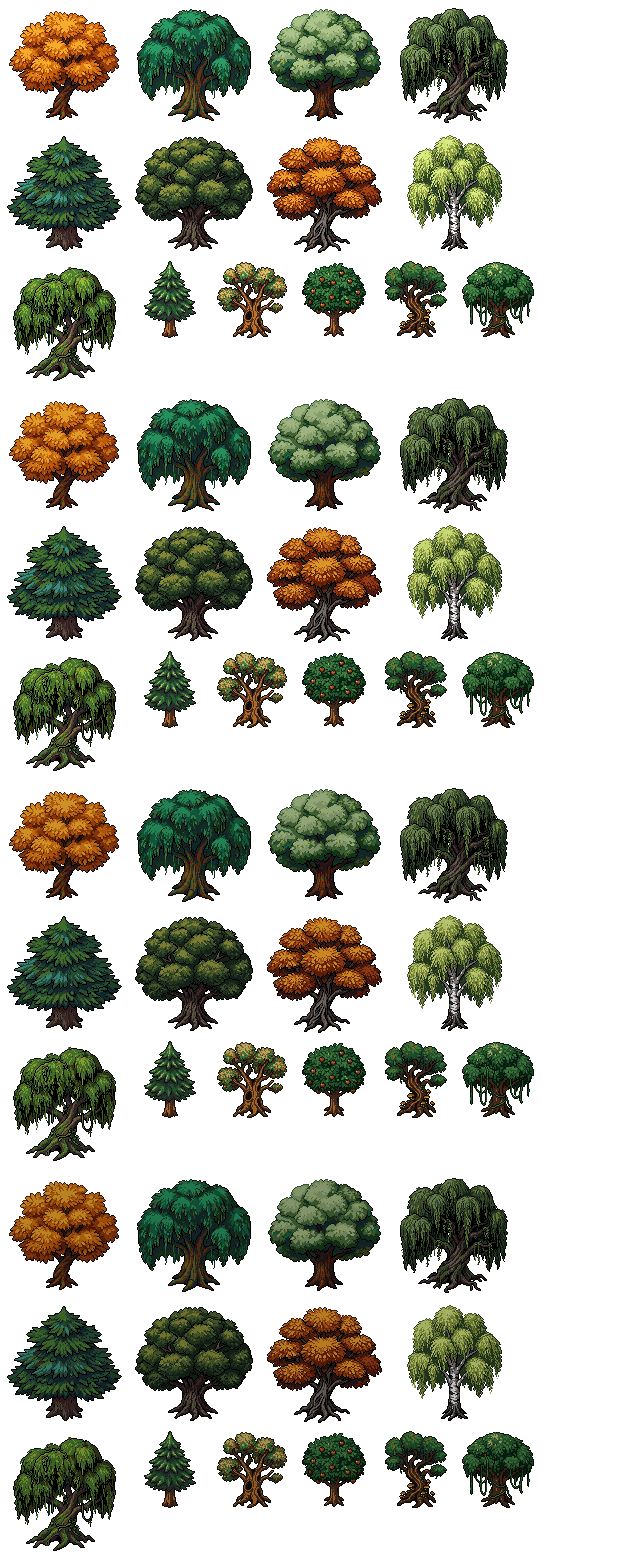
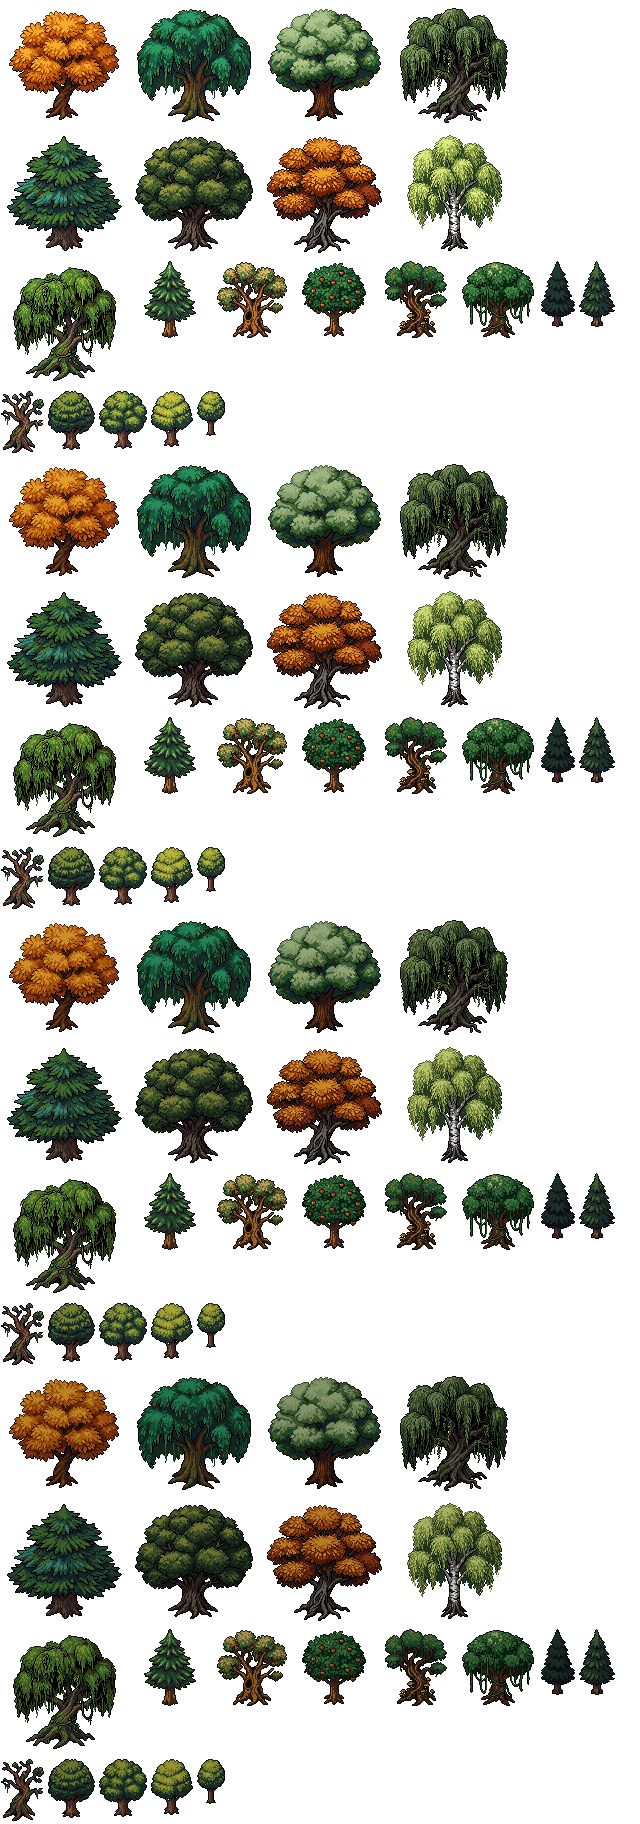
Standard trees use Rex's new tree set
oak / oak2 / cherry / pine now draw from Rex's 7 new trees (round trees, two pines, a gnarled tree
where the cherry trees were); each spot picks one look from where it stands, so neighbours differ.
They live in the shared tree atlas. Dead trees unchanged; old living-tree pictures removed.

Claude-Session: https://claude.ai/code/session_01UyEsHhhwY5pbE3D4yW6PxM

diff --git a/docs/PROJECT_SUMMARY.md b/docs/PROJECT_SUMMARY.md
@@ -94,6 +94,9 @@ A handoff for a new Claude chat. Read this first, then `CLAUDE.md` (project rule
   from `art/ground_src/village_before_roads.png` and also marks the lanes on the minimap).
   The village pond was moved 176 px east (`tools/move_pond.py`); moving it means moving its
   collision ellipse (`world.gd`), WaterPond1, the ducks and the minimap too.
+- **Trees:** the standard living trees (kinds oak, oak2, cherry, pine in `scripts/tree.gd`) use Rex's
+  std_* set (round trees, two pines, a gnarled tree for the old cherry spots), each spot picking
+  one look from its position; the burnt dead trees keep their old art.
 - **Forests:** Rex's big trees (`art/trees_src/`, packed with darker copies into one picture
   `art/trees_atlas.png` by `tools/pack_trees.py`, which also writes the list in `scripts/tree_art.gd`)
   can be placed one by one (tree.tscn, the new kinds) or as a thick forest: `scenes/forest.tscn` /
